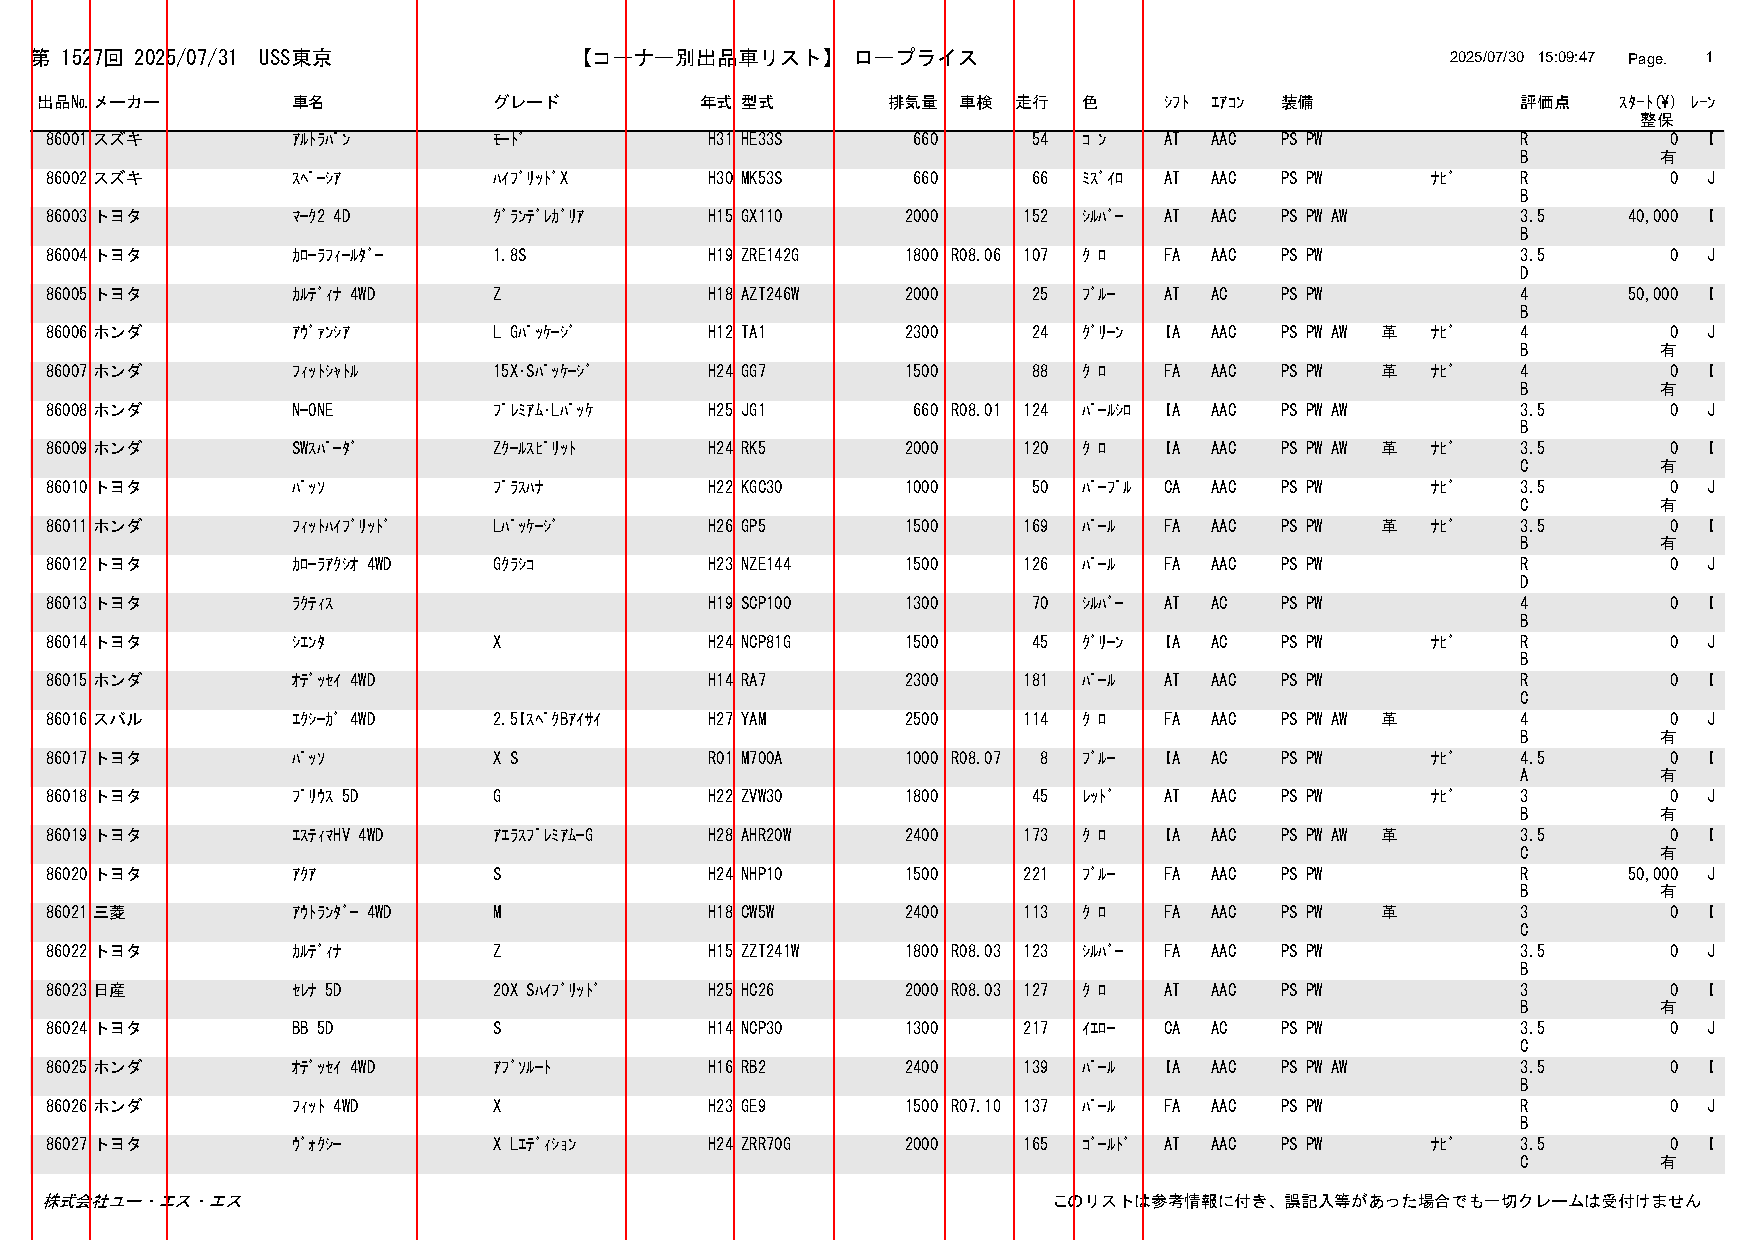
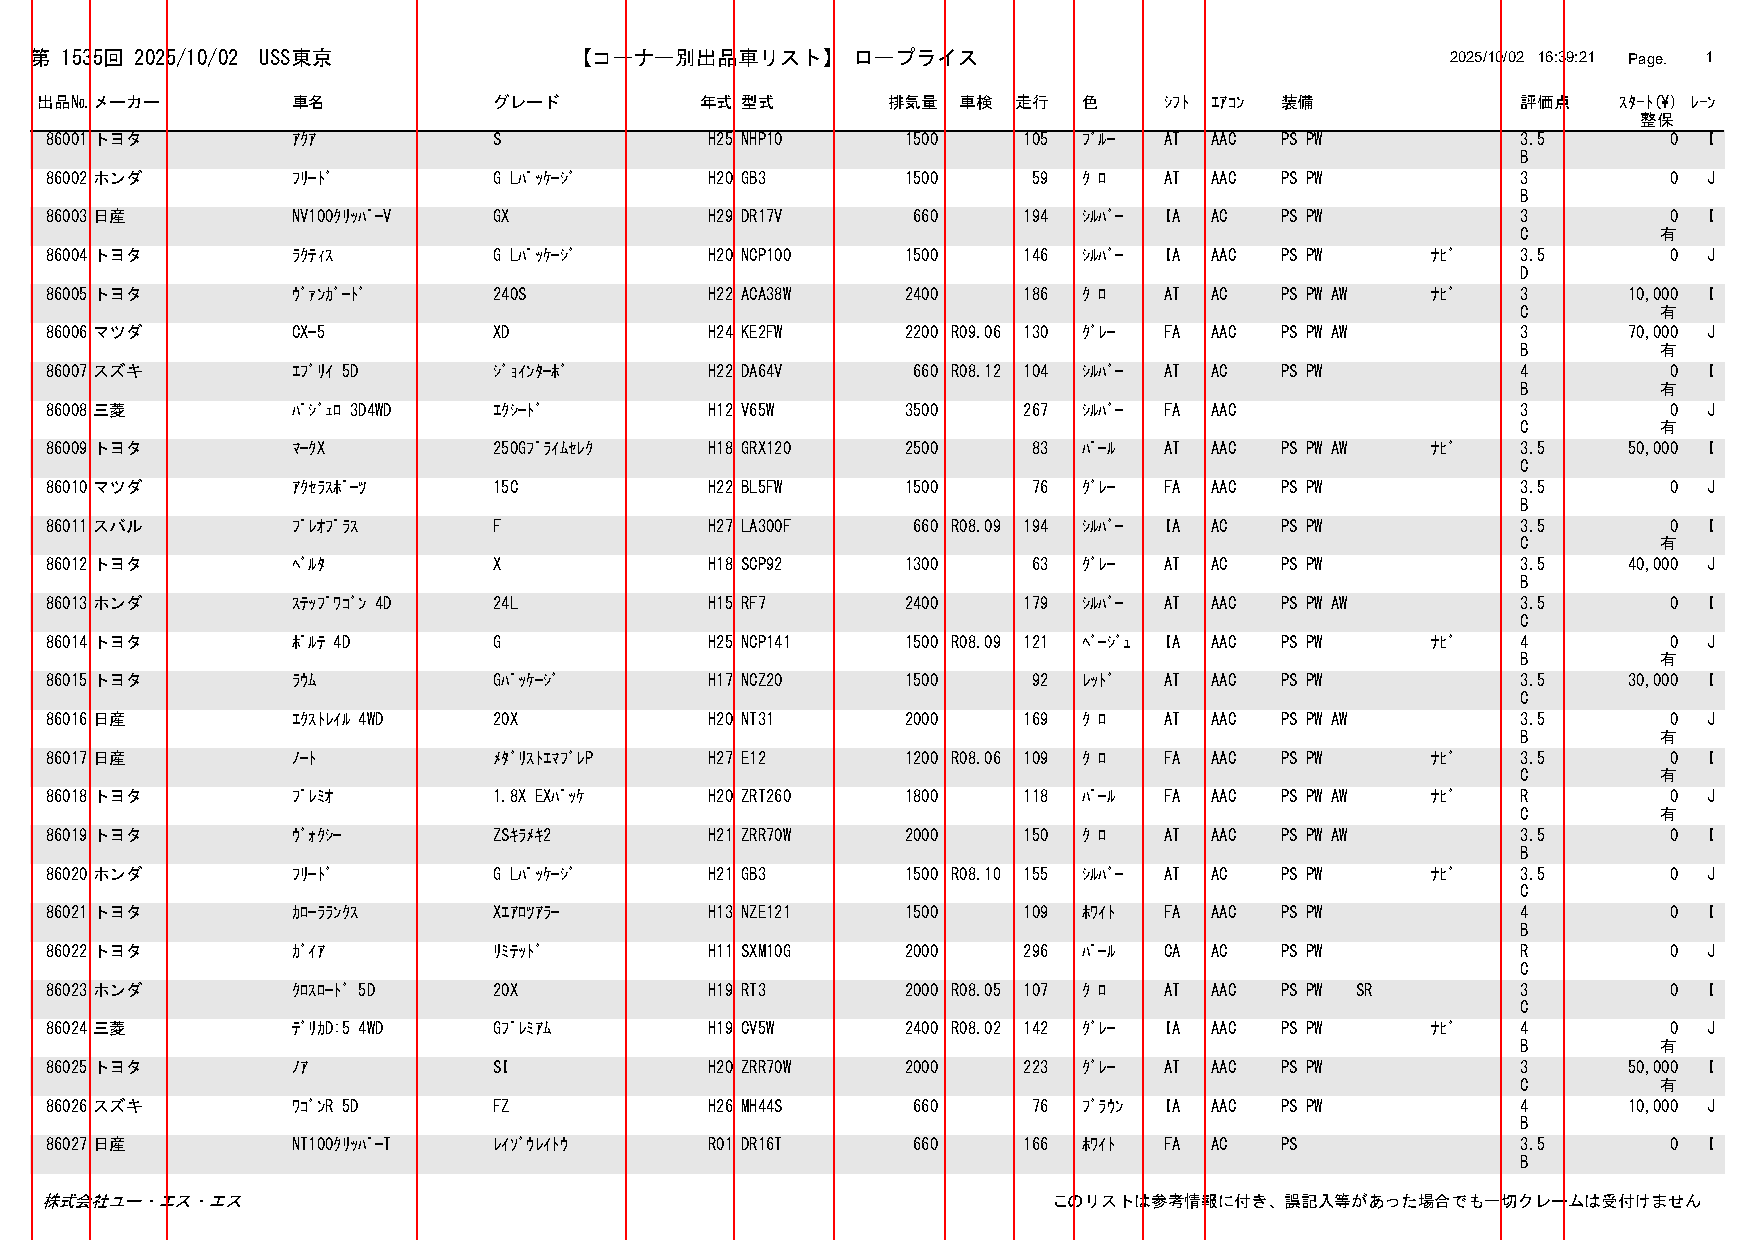
見出しにシフトと評価点を追加

diff --git a/src/api/main.py b/src/api/main.py
@@ -72,11 +72,13 @@ def generate_report_pdf(results: list) -> str:
     finally:
         session.close()
 
+    # ▼▼▼ headersリストの定義を修正 ▼▼▼
+    # 「色」を削除し、「総重量」「シフト」「評価点」を追加
     headers = [
         ("出品番号", 18), ("メーカー", 18), ("車名", 30), ("グレード", 30), 
         ("年式", 10), ("型式", 22), ("排気量", 15), ("車検", 18), 
-        ("走行", 15), ("色", 12), ("総重量", 15),
-        ("E/G販売", 18), ("E/G価値", 18), ("素材価値", 18), ("メモ", 28)
+        ("走行", 12), ("シフト", 12), ("評価点", 12), ("総重量", 12),
+        ("E/G販売", 12), ("E/G価値", 12), ("素材価値", 12), ("メモ", 28)
     ]
     
     pdf.set_font('ipaexg', 'B', 7)
@@ -90,10 +92,9 @@ def generate_report_pdf(results: list) -> str:
     for i, res in enumerate(results):
         if not res or "error" in res: continue
         
-        # info変数は補助的に使うが、メインはresから取得する
         info = res.get('vehicle_info', {})
         breakdown = res.get('breakdown', {})
-        model_code = res.get('model_code', '') # ← infoからではなくresから取得
+        model_code = res.get('model_code', '')
 
         material_value = (
             breakdown.get('プレス材 (鉄)', 0) +
@@ -110,7 +111,12 @@ def generate_report_pdf(results: list) -> str:
             pdf.set_text_color(150, 150, 150)
             should_fill = True
         
-        # ▼▼▼ ここのデータ取得元を `res` に統一する ▼▼▼
+        # ▼▼▼ 2つの評価点を結合するロジックを追加 ▼▼▼
+        score = res.get('evaluation_score', '')
+        interior = res.get('evaluation_interior', '')
+        evaluation_text = f"{score} / {interior}" if score and interior else score or interior
+        
+        # ▼▼▼ row_dataリストの定義を修正 ▼▼▼
         row_data = [
             res.get('auction_no', ''),
             res.get('maker', ''),
@@ -121,8 +127,9 @@ def generate_report_pdf(results: list) -> str:
             str(res.get('displacement_cc', '')),
             str(res.get('inspection_date', '')),
             str(res.get('mileage_km', '')),
-            res.get('color', ''),
-            str(res.get('total_weight_kg', '')), # DBにない場合は空文字になる
+            res.get('shift', ''),
+            evaluation_text,
+            str(res.get('total_weight_kg', '')),
             breakdown.get('エンジン部品販売', '×'),
             f"{breakdown.get('エンジン/ミッション', 0):,.0f}",
             f"{material_value:,.0f}",
@@ -130,8 +137,6 @@ def generate_report_pdf(results: list) -> str:
         ]
         
         for col_idx, (data, width) in enumerate(zip(row_data, [w for h, w in headers])):
-            # ... (ハイライト処理は変更なし) ...
-
             pdf.cell(width, 6, str(data), border=1, fill=should_fill, align='C')
         
         pdf.ln()
@@ -141,6 +146,7 @@ def generate_report_pdf(results: list) -> str:
     output_path = os.path.join(tempfile.gettempdir(), f"report_{datetime.now().strftime('%Y%m%d%H%M%S')}.pdf")
     pdf.output(output_path)
     return output_path
+
 
 @app.get("/api/parameters")
 def get_parameters():

diff --git a/debug_layout.py b/debug_layout.py
@@ -16,7 +16,11 @@ COLUMN_BOUNDARIES = {
     "inspection_date": (453, 486), # 「車検」
     "mileage_km": (486, 515),      # 「走行」
     "color": (515, 548),          # 「色」
+    "shift": (548, 578),      # ▲ 「シフト」を追加
+    "space": (578, 720),      # ▲ 「シフト」を追加
+    "evaluation": (720, 750), # ▲ 「評価点」を追加
 }
+
 # ▲▲▲ この辞書の値を、出力画像を見ながら調整していきます ▲▲▲
 # --------------------------------------------------------------------------
 

diff --git a/src/data_processing/pdf_parser.py b/src/data_processing/pdf_parser.py
@@ -17,6 +17,10 @@ COLUMN_BOUNDARIES = {
     "inspection_date": (453, 486), # 「車検」
     "mileage_km": (486, 515),      # 「走行」
     "color": (515, 548),          # 「色」
+    "shift": (548, 578),      # ▲ 「シフト」を追加
+    #"space": (578, 720),      # ▲ 「シフト」を追加
+    "evaluation_score": (720, 750),   # 数字部分 (3.5 など)
+    "evaluation_interior": (720, 750), # 内装評価 (B, C など)
 }
 
 def extract_vehicles_from_pdf(pdf_path: str) -> list:
